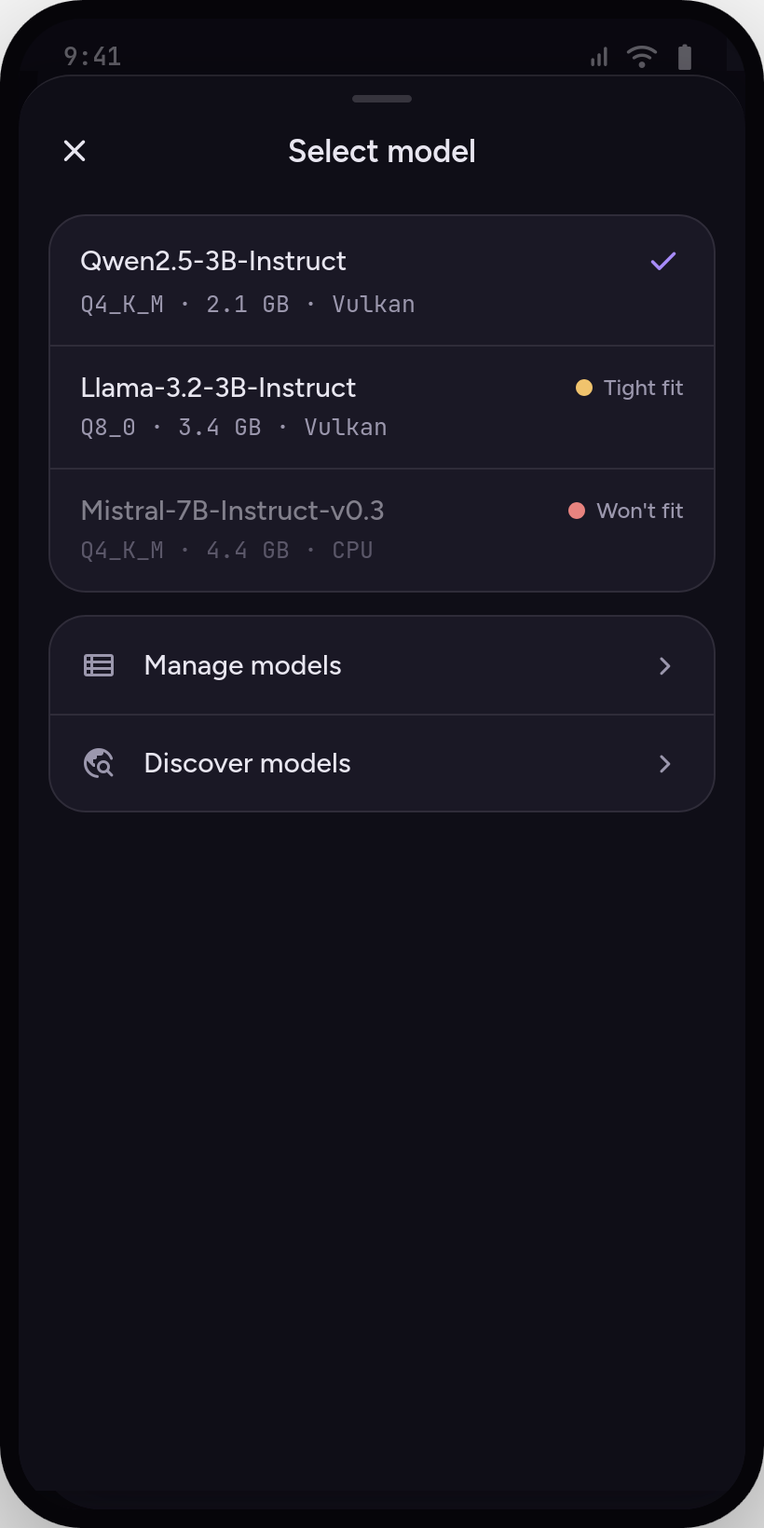
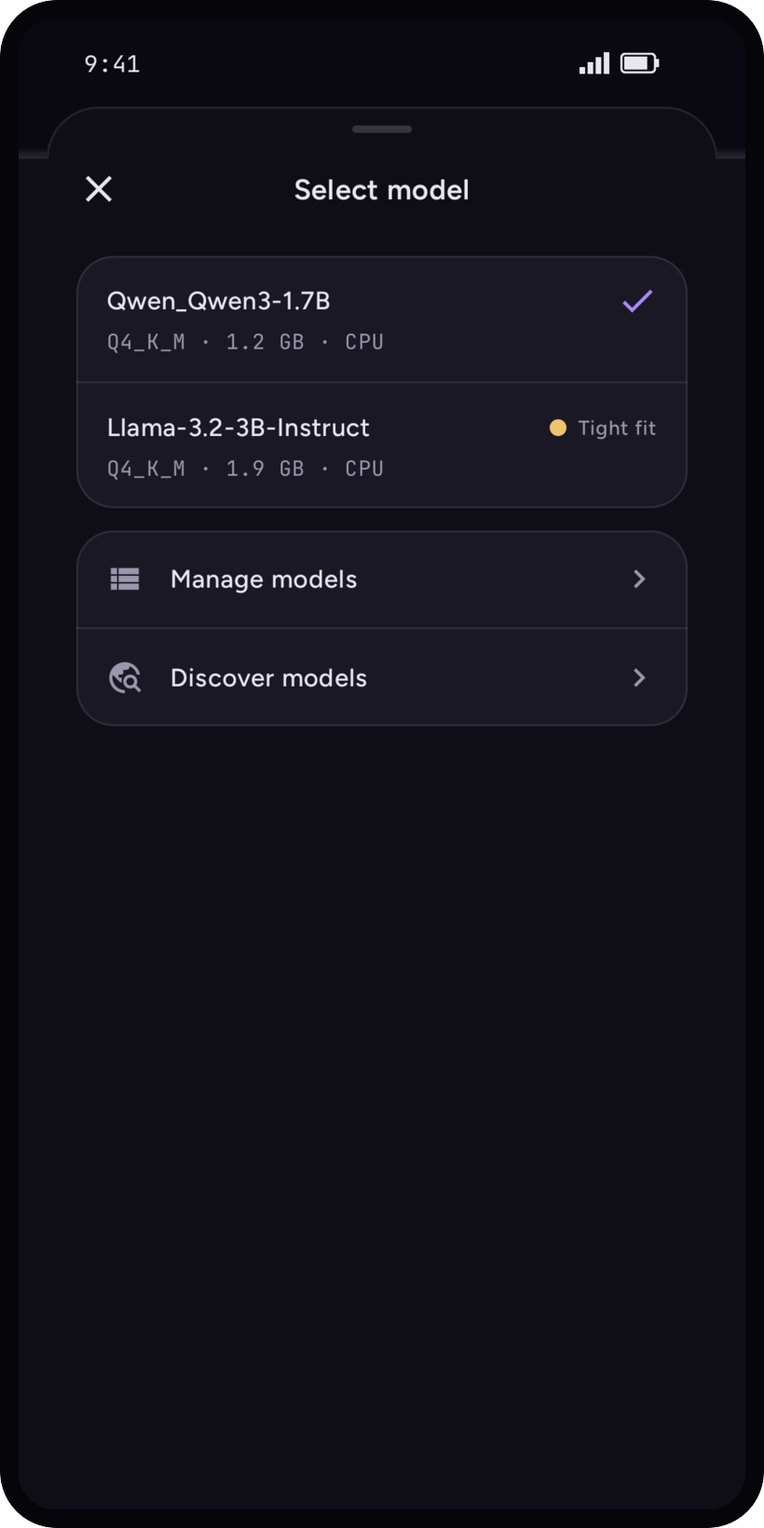
feat(shots): use real phone captures for every app screen
Release build captures in dark and light, framed by scripts/frame-shot.sh (clean status bar, same bezel as before). Five home screens and the onboarding are replaced, thirteen new screens illustrate the docs, alts and captions describe the real screens.

diff --git a/src/i18n/pages/docs.ts b/src/i18n/pages/docs.ts
@@ -119,7 +119,7 @@ const en: DocsLocale = {
           h: "First launch",
           blocks: [
             { t: "p", x: "tensai starts with a short setup: theme and language. Then it suggests a first model that fits your phone, or lets you import a GGUF file you already have." },
-            { t: "shot", name: "welcome", alt: "The welcome screen of tensai", caption: "The welcome screen. Everything runs on the phone." },
+            { t: "shot", name: "welcome", alt: "The welcome screen of tensai: Welcome to tensai, with the Theme and Language options, Continue and Skip", caption: "The welcome screen: a local AI agent, running fully on your phone. Theme and language are set here." },
             { t: "p", x: "Next: [choose your first model](/docs/first-model/)." },
           ],
         },
@@ -129,6 +129,7 @@ const en: DocsLocale = {
           blocks: [
             { t: "p", x: "Updates are new APKs on the GitHub releases, with their checksums and release notes. [Obtainium](/download/#update-h) can watch them and update tensai for you. F-Droid is not available yet." },
             { t: "p", x: "What changed in each version is on the [changelog](/changelog/), and in the app under Settings, About, Version." },
+            { t: "shot", name: "whats-new", alt: "The What's new screen of tensai, with the release notes of the installed version", caption: "What's new, from Settings, About, Version: the notes of the installed version." },
           ],
         },
       ],
@@ -191,6 +192,7 @@ const en: DocsLocale = {
             },
             { t: "p", x: "Two more labels exist: Not supported, when the engine does not know the model's architecture yet, and Draft model, for speculative decoding heads that cannot run alone. Neither has a way to load." },
             { t: "p", x: "A red light does not forbid anything: Load anyway is there, kept quiet on purpose. On the model's detail page, Estimated memory shows the number behind the light." },
+            { t: "shot", name: "model-detail", alt: "Model details of a loaded model, On this device: Estimated memory with the memory available, Backend, File location, Saved sessions and Unload", caption: "A model's details: Estimated memory with what is available, and the backend." },
           ],
         },
         {
@@ -198,7 +200,7 @@ const en: DocsLocale = {
           h: "In the app",
           blocks: [
             { t: "p", x: "Open the model picker from the chip in the input bar. Each model shows its quantization, file size, backend and fit for this phone. Manage models and Discover models are under the list." },
-            { t: "shot", name: "picker", alt: "The model picker of tensai, with the fit label next to each model", caption: "The model picker. Each model shows its quantization, size, backend and fit for this phone." },
+            { t: "shot", name: "picker", alt: "The model picker of tensai: the loaded model with a check, another model marked Tight fit, then Manage models and Discover models", caption: "The model picker. Each model shows its quantization, size and backend, with a check on the loaded one and the fit label on the others." },
             { t: "p", x: "In Discover, Recommended for your device comes first, and the Fits my phone filter hides what would not load. See [Download from Hugging Face](/docs/huggingface/)." },
           ],
         },
@@ -215,6 +217,7 @@ const en: DocsLocale = {
           blocks: [
             { t: "ol", items: ["Open Models, then Add a model, then From this phone: Import a GGUF file. On first launch the same button sits under the recommended model.", "Pick the file.", "Wait for the copy. The screen shows how much of the file is copied."] },
             { t: "p", x: "tensai copies the file into its own storage: the original stays where it was, and you need room for a second copy. It then reads the details of the model (architecture, parameters, quantization, context length) and adds it to Models, On device, with its fit verdict." },
+            { t: "shot", name: "add-model", alt: "The Models screen with the Add a model sheet: From Hugging Face, Search and download, and From this phone, Import a GGUF file", caption: "Add a model: from this phone, or from Hugging Face." },
           ],
         },
         {
@@ -232,6 +235,7 @@ const en: DocsLocale = {
           blocks: [
             { t: "p", x: "A model needs its chat template to know where a message starts and ends. By default tensai uses the template stored in the file, or guesses one from the model's name when the file has none." },
             { t: "p", x: "If the guess is wrong, set it by hand in the model's details: ChatML, Mistral, Llama 3, Gemma or Phi-3. Changing the template clears the saved sessions of that model and applies at the next load." },
+            { t: "shot", name: "chat-template", alt: "The Chat template dialog: Auto, ChatML, Mistral, Llama 3, Gemma and Phi-3", caption: "Chat template. Auto is the template of the file, or a guess from the model name." },
             { t: "p", x: "Tools are only offered to models whose template supports them. See [Tools and permissions](/docs/tools/)." },
           ],
         },
@@ -256,7 +260,7 @@ const en: DocsLocale = {
           blocks: [
             { t: "p", x: "Models, then the Discover tab. It opens on Recommended for your device, then Popular on Hugging Face. Search by name, or paste the link of a repo or of a file: only Hugging Face links are accepted." },
             { t: "p", x: "Filter with Fits my phone, and sort by downloads, likes, recent or size. The badges tell what a model offers: Tools, Thinking, Vision, and Gated when it needs a licence." },
-            { t: "shot", name: "firstmodel", alt: "The first-run model screen: a recommended model with its Download button and the Import a GGUF file link", caption: "The first-run model screen: a recommended model, its Download button, and Import a GGUF file under it." },
+            { t: "shot", name: "discover", alt: "The Discover tab of Models: Recommended for your device with the phone's RAM, the filters above the list, and models marked Runs well", caption: "Discover: Recommended for your device comes first, with the filters above it." },
           ],
         },
         {
@@ -264,6 +268,7 @@ const en: DocsLocale = {
           h: "Choose a file",
           blocks: [
             { t: "p", x: "A repo page lists the GGUF files a phone can load, each with its fit, and marks the Recommended one. The readme is there too. Download shows the size before you tap." },
+            { t: "shot", name: "repo-files", alt: "A Hugging Face repo page in tensai: Choose a file, with the size and the fit of each quantization, and a Download button showing the size", caption: "Choose a file: size and fit for each quantization." },
           ],
         },
         {
@@ -271,6 +276,7 @@ const en: DocsLocale = {
           h: "Downloads",
           blocks: [
             { t: "ul", items: ["Downloads run in the background and show their progress in a notification, with Pause and Cancel.", "Several downloads queue up. A paused or interrupted one resumes where it stopped.", "On mobile data tensai asks first. Settings, Downloads, Download on mobile data lets you allow it for good.", "A file that does not match the expected size or checksum fails instead of being added.", "When it is done, the model is in Models, On device, ready to load."] },
+            { t: "shot", name: "download-progress", alt: "Models, On device: a download in progress with its size, speed and time left, with Pause and Cancel, above two models marked Tight fit and Runs well", caption: "A download in progress, with Pause and Cancel." },
           ],
         },
         {
@@ -280,6 +286,7 @@ const en: DocsLocale = {
             { t: "p", x: "Some models are gated: you accept their licence on the Hugging Face site, with your account. tensai cannot do that for you." },
             { t: "ol", items: ["Accept the licence on the model's Hugging Face page.", "Create a read token in your Hugging Face account settings.", "In tensai: Settings, Downloads, Hugging Face token. Paste it and save."] },
             { t: "p", x: "The token stays on the phone. tensai checks it when you save it; with no connection it says Token saved, but it could not be checked. If Hugging Face refuses it, replace it, or remove it to keep downloading public models." },
+            { t: "shot", name: "gated", alt: "A gated model's page in tensai: the Gated badge, the message to accept its licence on the Hugging Face site and add a token in Settings, and an Open Settings button", caption: "A gated model: accept its licence, then add a token in Settings." },
           ],
         },
         {
@@ -309,7 +316,9 @@ const en: DocsLocale = {
                 ["Internet (off by default)", "Web search, reading one web page, weather, Wikipedia."],
               ],
             },
-            { t: "shot", name: "tool", alt: "A confirmation card in the chat: tensai wants to delete three facts from memory, with Deny and Allow", caption: "tensai asks before it deletes. Deny, or Allow." },
+            { t: "shot", name: "tools-tiers", alt: "Settings, Tools: On this phone, Phone actions and Internet, each with its switch, and the warning about where Internet requests go", caption: "Settings, Tools: one switch per tier." },
+            { t: "p", x: "Each chat has its own switch too: Conversation settings, Tools, Let the model use tools in this chat." },
+            { t: "shot", name: "chat-tools", alt: "The Conversation settings sheet: Instructions, the Thinking toggle, response style, Sampling, the Tools toggle and Max response length", caption: "Conversation settings: the Tools switch of this chat." },
           ],
         },
         {
@@ -317,6 +326,7 @@ const en: DocsLocale = {
           h: "What asks first",
           blocks: [
             { t: "ul", items: ["Deleting a fact from memory and opening a link ask for your answer in the chat, with Deny and Allow. Stop cancels the whole turn.", "A phone action opens the other app with a draft, and you validate there. tensai never sends a message itself.", "Remembering a fact or listing the memory does not ask, but every call is shown. You can forget everything in Settings, Memory.", "A tool you turned off is not offered to the model at all."] },
+            { t: "shot", name: "tool", alt: "A confirmation card in the chat: tensai wants to delete a fact from memory, with the action and the id, and Deny and Allow", caption: "tensai asks before it deletes. Deny, or Allow." },
           ],
         },
         {
@@ -340,10 +350,11 @@ const en: DocsLocale = {
           h: "What leaves the phone",
           blocks: [
             { t: "p", x: "Only the Internet tier, and only once you turn it on. Each call shows where it went. The model writes the query from the whole conversation, so a search can contain anything that is in the chat, including the result of another tool." },
+            { t: "shot", name: "internet-on", alt: "The Internet screen: Use the internet switched on, the warning about where requests go, the search provider choice and the list of Internet tools", caption: "Settings, Tools, Internet: the warning, the search provider, the tools." },
             {
               t: "dl",
               items: [
-                ["Web search", "Your search provider: DuckDuckGo by default and without a key, with Wikipedia and Marginalia as fallbacks, or Brave or Tavily with your own API key, stored on the phone."],
+                ["Web search", "Your search provider: DuckDuckGo by default and without a key, with Wikipedia and Marginalia as fallbacks, or Brave (API key, monthly free credit, card required) or Tavily (API key, 1,000 free searches a month, no card), as Settings describes them. The key is stored on the phone."],
                 ["Reading a page", "The site of the page, over HTTPS, as a normal request."],
                 ["Weather", "Open-Meteo, with the place you asked about or your approximate location."],
                 ["Wikipedia", "The title or the term looked up."],
@@ -365,6 +376,7 @@ const en: DocsLocale = {
           blocks: [
             { t: "p", x: "Settings, Inference, Default backend: Auto picks CPU or Vulkan per model, CPU forces the processor, Vulkan runs the model on the GPU when the phone supports it. Auto is the recommended one." },
             { t: "p", x: "On the class of phone we measured, dense models (Llama, Qwen, Gemma) run fastest on the big CPU cores: this GPU has no cooperative-matrix path, so Vulkan loses on prompt processing and on generation. A few architectures are the other way round: for Phi and Gemma 3n the CPU path is slow, and Vulkan is faster at generating, though the CPU still wins on prompt processing." },
+            { t: "shot", name: "backend", alt: "The Default backend dialog: Auto, recommended, picks CPU or Vulkan per model; CPU; Vulkan", caption: "Settings, Inference, Default backend." },
           ],
         },
         {
@@ -391,7 +403,8 @@ const en: DocsLocale = {
               ],
             },
             { t: "p", x: "Changing the context clears the saved sessions of the models it applies to. The conversations stay." },
-            { t: "shot", name: "context", alt: "The context sheet: how much of the window is used, the loaded model, the backend and the KV cache", caption: "The context sheet, from the ring in the chat header: what fills the window, the runtime, and the agent's activity." },
+            { t: "shot", name: "context-length", alt: "The Context length dialog for a model: Auto with its token count, then 4K, 8K, 16K, 32K and Max, each with its cache size and total memory against the phone's", caption: "Context length: for each choice, the cache and the total memory against this phone's." },
+            { t: "shot", name: "context", alt: "The context sheet: how much of the window is used, the runtime (model, backend, context length, KV cache, last reply) and the agent's tool calls", caption: "The context sheet, from the ring in the chat header: what fills the window, the runtime, and the agent's activity." },
           ],
         },
         {
@@ -486,7 +499,7 @@ const fr: DocsLocale = {
           h: "Premier lancement",
           blocks: [
             { t: "p", x: "tensai démarre par un court réglage : thème et langue. Puis il propose un premier modèle qui tient sur ton téléphone, ou te laisse importer un fichier GGUF que tu as déjà." },
-            { t: "shot", name: "welcome", alt: "L'écran d'accueil de tensai", caption: "L'écran d'accueil. Tout tourne sur le téléphone." },
+            { t: "shot", name: "welcome", alt: "L'écran d'accueil de tensai : Bienvenue sur tensai, avec les options Thème et Langue, Continuer et Passer", caption: "L'écran d'accueil : un agent IA local, qui tourne entièrement sur le téléphone. Le thème et la langue se règlent ici." },
             { t: "p", x: "Ensuite : [choisir son premier modèle](/docs/first-model/)." },
           ],
         },
@@ -496,6 +509,7 @@ const fr: DocsLocale = {
           blocks: [
             { t: "p", x: "Les mises à jour sont de nouveaux APK sur les releases GitHub, avec leurs sommes de contrôle et leurs notes de version. [Obtainium](/download/#update-h) peut les surveiller et mettre tensai à jour pour toi. F-Droid n'est pas encore disponible." },
             { t: "p", x: "Ce qui change à chaque version est dans le [changelog](/changelog/), et dans l'app sous Paramètres, À propos, Version." },
+            { t: "shot", name: "whats-new", alt: "L'écran Nouveautés de tensai, avec les notes de la version installée", caption: "Nouveautés, depuis Paramètres, À propos, Version : les notes de la version installée." },
           ],
         },
       ],
@@ -558,6 +572,7 @@ const fr: DocsLocale = {
             },
             { t: "p", x: "Deux autres étiquettes existent : Non pris en charge, quand le moteur ne connaît pas encore l'architecture du modèle, et Modèle brouillon, pour les têtes de décodage spéculatif qui ne tournent pas seules. Aucune des deux ne peut se charger." },
             { t: "p", x: "Un voyant rouge n'interdit rien : Charger quand même est là, discret exprès. Dans la fiche du modèle, Mémoire estimée montre le chiffre derrière le voyant." },
+            { t: "shot", name: "model-detail", alt: "Détails d'un modèle chargé, Sur cet appareil : Mémoire estimée avec la mémoire disponible, Backend, Emplacement du fichier, Sessions enregistrées et Décharger", caption: "Les détails d'un modèle : la Mémoire estimée avec ce qui est disponible, et le backend." },
           ],
         },
         {
@@ -565,7 +580,7 @@ const fr: DocsLocale = {
           h: "Dans l'app",
           blocks: [
             { t: "p", x: "Ouvre le sélecteur de modèle depuis la puce de la barre de saisie. Chaque modèle montre sa quantification, la taille du fichier, le backend et l'adéquation pour ce téléphone. Gérer les modèles et Découvrir des modèles sont sous la liste." },
-            { t: "shot", name: "picker", alt: "Le sélecteur de modèle de tensai, avec l'étiquette d'adéquation à côté de chaque modèle", caption: "Le sélecteur de modèle. Chaque modèle montre sa quantification, sa taille, son backend et son adéquation pour ce téléphone." },
+            { t: "shot", name: "picker", alt: "Le sélecteur de modèle de tensai : le modèle chargé avec une coche, un autre modèle marqué Juste, puis Gérer les modèles et Découvrir des modèles", caption: "Le sélecteur de modèle. Chaque modèle montre sa quantification, sa taille et son backend, avec une coche sur le modèle chargé et l'étiquette d'adéquation sur les autres." },
             { t: "p", x: "Dans Découvrir, Recommandés pour cet appareil vient en premier, et le filtre Tient sur mon téléphone cache ce qui ne chargerait pas. Voir [Télécharger depuis Hugging Face](/docs/huggingface/)." },
           ],
         },
@@ -582,6 +597,7 @@ const fr: DocsLocale = {
           blocks: [
             { t: "ol", items: ["Ouvre Modèles, puis Ajouter un modèle, puis Depuis ce téléphone : Importer un fichier GGUF. Au premier lancement, le même bouton est sous le modèle recommandé.", "Choisis le fichier.", "Attends la copie. L'écran indique la part du fichier déjà copiée."] },
             { t: "p", x: "tensai copie le fichier dans son propre stockage : l'original reste où il était, et il faut de la place pour une seconde copie. Il lit ensuite les détails du modèle (architecture, paramètres, quantification, longueur de contexte) et l'ajoute à Modèles, Sur l'appareil, avec son verdict." },
+            { t: "shot", name: "add-model", alt: "L'écran Modèles avec la feuille Ajouter un modèle : Depuis Hugging Face, Rechercher et télécharger, et Depuis ce téléphone, Importer un fichier GGUF", caption: "Ajouter un modèle : depuis ce téléphone, ou depuis Hugging Face." },
           ],
         },
         {
@@ -599,6 +615,7 @@ const fr: DocsLocale = {
           blocks: [
             { t: "p", x: "Un modèle a besoin de son modèle de chat pour savoir où un message commence et finit. Par défaut tensai utilise celui stocké dans le fichier, ou en devine un d'après le nom du modèle quand le fichier n'en a pas." },
             { t: "p", x: "Si la devinette est fausse, règle-le à la main dans les détails du modèle : ChatML, Mistral, Llama 3, Gemma ou Phi-3. Changer le modèle de chat efface les sessions sauvegardées de ce modèle et s'applique au prochain chargement." },
+            { t: "shot", name: "chat-template", alt: "La boîte Modèle de chat : Auto, ChatML, Mistral, Llama 3, Gemma et Phi-3", caption: "Modèle de chat. Auto, c'est le modèle du fichier, ou une déduction depuis le nom du modèle." },
             { t: "p", x: "Les outils ne sont proposés qu'aux modèles dont le modèle de chat les gère. Voir [Outils et permissions](/docs/tools/)." },
           ],
         },
@@ -623,7 +640,7 @@ const fr: DocsLocale = {
           blocks: [
             { t: "p", x: "Modèles, puis l'onglet Découvrir. Il s'ouvre sur Recommandés pour cet appareil, puis Populaires sur Hugging Face. Cherche par nom, ou colle le lien d'un dépôt ou d'un fichier : seuls les liens Hugging Face sont acceptés." },
             { t: "p", x: "Filtre avec Tient sur mon téléphone, et trie par téléchargements, Likes, récence ou taille. Les badges disent ce qu'offre un modèle : Outils, Réflexion, Vision, et Restreint quand il demande une licence." },
-            { t: "shot", name: "firstmodel", alt: "L'écran de modèle du premier lancement : un modèle recommandé avec son bouton Télécharger et le lien Importer un fichier GGUF", caption: "L'écran de modèle du premier lancement : un modèle recommandé, son bouton Télécharger, et Importer un fichier GGUF dessous." },
+            { t: "shot", name: "discover", alt: "L'onglet Découvrir de Modèles : Recommandés pour cet appareil avec la RAM du téléphone, les filtres au-dessus de la liste, et des modèles marqués Fonctionne bien", caption: "Découvrir : Recommandés pour cet appareil vient en premier, avec les filtres au-dessus." },
           ],
         },
         {
@@ -631,6 +648,7 @@ const fr: DocsLocale = {
           h: "Choisir un fichier",
           blocks: [
             { t: "p", x: "La page d'un dépôt liste les fichiers GGUF qu'un téléphone peut charger, chacun avec son adéquation, et marque le Recommandé. Le readme y est aussi. Télécharger affiche la taille avant que tu touches." },
+            { t: "shot", name: "repo-files", alt: "La page d'un dépôt Hugging Face dans tensai : Choisir un fichier, avec la taille et l'adéquation de chaque quantification, et un bouton Télécharger qui affiche la taille", caption: "Choisir un fichier : taille et adéquation de chaque quantification." },
           ],
         },
         {
@@ -638,6 +656,7 @@ const fr: DocsLocale = {
           h: "Téléchargements",
           blocks: [
             { t: "ul", items: ["Les téléchargements tournent en arrière-plan et montrent leur progression dans une notification, avec Pause et Annuler.", "Plusieurs téléchargements se mettent en file. Un téléchargement en pause ou interrompu reprend là où il s'était arrêté.", "En données mobiles, tensai demande d'abord. Paramètres, Téléchargements, Télécharger en données mobiles permet de l'autoriser définitivement.", "Un fichier dont la taille ou la somme de contrôle ne correspond pas échoue au lieu d'être ajouté.", "Une fois fini, le modèle est dans Modèles, Sur l'appareil, prêt à charger."] },
+            { t: "shot", name: "download-progress", alt: "Modèles, Sur l'appareil : un téléchargement en cours avec sa taille, sa vitesse et le temps restant, avec Pause et Annuler, au-dessus de deux modèles marqués Juste et Fonctionne bien", caption: "Un téléchargement en cours, avec Pause et Annuler." },
           ],
         },
         {
@@ -647,6 +666,7 @@ const fr: DocsLocale = {
             { t: "p", x: "Certains modèles sont restreints : tu acceptes leur licence sur le site de Hugging Face, avec ton compte. tensai ne peut pas le faire à ta place." },
             { t: "ol", items: ["Accepte la licence sur la page Hugging Face du modèle.", "Crée un jeton en lecture dans les paramètres de ton compte Hugging Face.", "Dans tensai : Paramètres, Téléchargements, Jeton Hugging Face. Colle-le et enregistre."] },
             { t: "p", x: "Le jeton reste sur le téléphone. tensai le vérifie à l'enregistrement ; sans connexion, il indique Jeton enregistré, mais il n'a pas pu être vérifié. Si Hugging Face le refuse, remplace-le, ou retire-le pour continuer à télécharger les modèles publics." },
+            { t: "shot", name: "gated", alt: "La page d'un modèle restreint dans tensai : le badge Restreint, le message pour accepter sa licence sur le site de Hugging Face et ajouter un jeton dans les paramètres, et un bouton Ouvrir les réglages", caption: "Un modèle restreint : accepte sa licence, puis ajoute un jeton dans les paramètres." },
           ],
         },
         {
@@ -676,7 +696,9 @@ const fr: DocsLocale = {
                 ["Internet (désactivé par défaut)", "Recherche web, lecture d'une page web, météo, Wikipédia."],
               ],
             },
-            { t: "shot", name: "tool", alt: "Une carte de confirmation dans le chat : tensai veut supprimer trois faits de la mémoire, avec Refuser et Autoriser", caption: "tensai demande avant de supprimer. Refuser, ou Autoriser." },
+            { t: "shot", name: "tools-tiers", alt: "Paramètres, Outils : Sur ce téléphone, Actions du téléphone et Internet, chacun avec son interrupteur, et l'avertissement sur la destination des requêtes Internet", caption: "Paramètres, Outils : un interrupteur par niveau." },
+            { t: "p", x: "Chaque chat a aussi son propre interrupteur : Paramètres de la conversation, Outils, Laisser le modèle utiliser des outils dans ce chat." },
+            { t: "shot", name: "chat-tools", alt: "La feuille Paramètres de la conversation : Instructions, l'interrupteur de réflexion, le style de réponse, l'échantillonnage, l'interrupteur Outils et la longueur maximale de réponse", caption: "Paramètres de la conversation : l'interrupteur Outils de ce chat." },
           ],
         },
         {
@@ -684,6 +706,7 @@ const fr: DocsLocale = {
           h: "Ce qui demande d'abord",
           blocks: [
             { t: "ul", items: ["Supprimer un fait de la mémoire et ouvrir un lien demandent ta réponse dans le chat, avec Refuser et Autoriser. Stop annule tout le tour.", "Une action du téléphone ouvre l'autre appli avec un brouillon, et tu valides là-bas. tensai n'envoie jamais un message lui-même.", "Retenir un fait ou lister la mémoire ne demande rien, mais chaque appel est affiché. Tu peux tout oublier dans Paramètres, Mémoire.", "Un outil que tu as désactivé n'est pas du tout proposé au modèle."] },
+            { t: "shot", name: "tool", alt: "Une carte de confirmation dans le chat : tensai veut supprimer un fait de la mémoire, avec l'action et l'identifiant, et Refuser et Autoriser", caption: "tensai demande avant de supprimer. Refuser, ou Autoriser." },
           ],
         },
         {
@@ -707,10 +730,11 @@ const fr: DocsLocale = {
           h: "Ce qui sort du téléphone",
           blocks: [
             { t: "p", x: "Seulement le niveau Internet, et seulement une fois que tu l'actives. Chaque appel montre où il est parti. Le modèle écrit la requête à partir de toute la conversation : une recherche peut donc contenir tout ce qui est dans le chat, y compris le résultat d'un autre outil." },
+            { t: "shot", name: "internet-on", alt: "L'écran Internet : Utiliser internet activé, l'avertissement sur la destination des requêtes, le choix du fournisseur de recherche et la liste des outils Internet", caption: "Paramètres, Outils, Internet : l'avertissement, le fournisseur de recherche, les outils." },
             {
               t: "dl",
               items: [
-                ["Recherche web", "Ton fournisseur de recherche : DuckDuckGo par défaut et sans clé, avec Wikipédia et Marginalia en secours, ou Brave ou Tavily avec ta propre clé d'API, stockée sur le téléphone."],
+                ["Recherche web", "Ton fournisseur de recherche : DuckDuckGo par défaut et sans clé, avec Wikipédia et Marginalia en secours, ou Brave (clé d'API, crédit gratuit mensuel, carte bancaire requise) ou Tavily (clé d'API, 1 000 recherches gratuites par mois, sans carte), comme les décrit Paramètres. La clé est stockée sur le téléphone."],
                 ["Lecture d'une page", "Le site de la page, en HTTPS, comme une requête normale."],
                 ["Météo", "Open-Meteo, avec le lieu demandé ou ta position approximative."],
                 ["Wikipédia", "Le titre ou le terme cherché."],
@@ -732,6 +756,7 @@ const fr: DocsLocale = {
           blocks: [
             { t: "p", x: "Paramètres, Inférence, Backend par défaut : Auto choisit CPU ou Vulkan par modèle, CPU force le processeur, Vulkan fait tourner le modèle sur le GPU quand le téléphone le gère. Auto est le choix recommandé." },
             { t: "p", x: "Sur la classe de téléphone mesurée, les modèles denses (Llama, Qwen, Gemma) vont le plus vite sur les gros cœurs du CPU : ce GPU n'a pas de chemin cooperative-matrix, donc Vulkan perd en traitement du prompt comme en génération. Quelques architectures sont à l'inverse : pour Phi et Gemma 3n, le chemin CPU est lent et Vulkan génère plus vite, même si le CPU reste devant pour le traitement du prompt." },
+            { t: "shot", name: "backend", alt: "La boîte Backend par défaut : Auto, recommandé, choisit CPU ou Vulkan selon le modèle ; CPU ; Vulkan", caption: "Paramètres, Inférence, Backend par défaut." },
           ],
         },
         {
@@ -758,7 +783,8 @@ const fr: DocsLocale = {
               ],
             },
             { t: "p", x: "Changer le contexte efface les sessions sauvegardées des modèles concernés. Les conversations restent." },
-            { t: "shot", name: "context", alt: "La feuille Contexte : la part de fenêtre utilisée, le modèle chargé, le backend et le cache KV", caption: "La feuille Contexte, depuis l'anneau de l'en-tête du chat : ce qui remplit la fenêtre, l'exécution, et l'activité de l'agent." },
+            { t: "shot", name: "context-length", alt: "La boîte Longueur de contexte d'un modèle : Auto avec son nombre de tokens, puis 4K, 8K, 16K, 32K et Max, chacun avec la taille du cache et la mémoire totale face à celle du téléphone", caption: "Longueur de contexte : pour chaque choix, le cache et la mémoire totale face à celle de ce téléphone." },
+            { t: "shot", name: "context", alt: "La feuille Contexte : la part de fenêtre utilisée, l'exécution (modèle, backend, longueur de contexte, cache KV, dernière réponse) et les appels d'outils de l'agent", caption: "La feuille Contexte, depuis l'anneau de l'en-tête du chat : ce qui remplit la fenêtre, l'exécution, et l'activité de l'agent." },
           ],
         },
         {

diff --git a/src/i18n/pages/download.ts b/src/i18n/pages/download.ts
@@ -51,8 +51,8 @@ const en = {
     steps: [
       { title: "Download the APK", text: "Get the APK from this page or from GitHub releases.", textSoon: "At 1.0, the APK will be on this page and on GitHub releases.", shot: "apk-download", alt: "Browser download bar showing tensai-1.0.0.apk with an Open button" },
       { title: "Allow installs from this source", text: "Android asks once. Allow your browser or file manager to install apps.", textSoon: "Android will ask once. Allow your browser or file manager to install apps.", shot: "unknown-apps", alt: "Android Install unknown apps settings for the browser, Allow from this source switched on" },
-      { title: "Open tensai", text: "tensai starts with a short setup: theme and language.", textSoon: "tensai will start with a short setup: theme and language.", shot: "welcome", alt: "Welcome screen" },
-      { title: "Pick a first model", text: "tensai suggests one that fits your phone. Download it or import a GGUF file.", textSoon: "tensai will suggest one that fits your phone. Download it or import a GGUF file.", shot: "firstmodel", alt: "First model picker" },
+      { title: "Open tensai", text: "tensai starts with a short setup: theme and language.", textSoon: "tensai will start with a short setup: theme and language.", shot: "welcome", alt: "The welcome screen: Welcome to tensai, with the Theme and Language options, Continue and Skip" },
+      { title: "Pick a first model", text: "tensai suggests one that fits your phone. Download it or import a GGUF file.", textSoon: "tensai will suggest one that fits your phone. Download it or import a GGUF file.", shot: "firstmodel", alt: "The first-run model screen: a recommended model marked Runs well, with its Download button and the Import a GGUF file button" },
     ],
   },
   update: {
@@ -116,8 +116,8 @@ const fr: typeof en = {
     steps: [
       { title: "Télécharger l'APK", text: "L'APK se récupère sur cette page ou dans les releases GitHub.", textSoon: "À la 1.0, l'APK sera sur cette page et dans les releases GitHub.", shot: "apk-download", alt: "Barre de téléchargement du navigateur avec tensai-1.0.0.apk et un bouton Open" },
       { title: "Autoriser l'installation depuis cette source", text: "Android le demande une seule fois. Autoriser le navigateur ou le gestionnaire de fichiers à installer des apps.", textSoon: "Android le demandera une seule fois. Il faudra autoriser le navigateur ou le gestionnaire de fichiers à installer des apps.", shot: "unknown-apps", alt: "Réglage Android Install unknown apps pour le navigateur, Allow from this source activé" },
-      { title: "Ouvrir tensai", text: "tensai démarre par une courte configuration : thème et langue.", textSoon: "tensai démarrera par une courte configuration : thème et langue.", shot: "welcome", alt: "Écran d'accueil" },
-      { title: "Choisir un premier modèle", text: "tensai en propose un adapté au téléphone. Le télécharger ou importer un fichier GGUF.", textSoon: "tensai en proposera un adapté au téléphone. Le télécharger ou importer un fichier GGUF.", shot: "firstmodel", alt: "Choix du premier modèle" },
+      { title: "Ouvrir tensai", text: "tensai démarre par une courte configuration : thème et langue.", textSoon: "tensai démarrera par une courte configuration : thème et langue.", shot: "welcome", alt: "L'écran d'accueil : Bienvenue sur tensai, avec les options Thème et Langue, Continuer et Passer" },
+      { title: "Choisir un premier modèle", text: "tensai en propose un adapté au téléphone. Le télécharger ou importer un fichier GGUF.", textSoon: "tensai en proposera un adapté au téléphone. Le télécharger ou importer un fichier GGUF.", shot: "firstmodel", alt: "L'écran de modèle du premier lancement : un modèle recommandé marqué Fonctionne bien, avec son bouton Télécharger et le bouton Importer un fichier GGUF" },
     ],
   },
   update: {

diff --git a/src/i18n/pages/home.ts b/src/i18n/pages/home.ts
@@ -10,7 +10,7 @@ const en = {
     ctaNote: "Public release with 1.0",
     how: "How it works",
     engine: "llama.kt is already public",
-    shotAlt: "tensai chat screen: a short reply with its speed stats",
+    shotAlt: "A tensai chat: a short reply to a question about phone battery, with its speed stats under the reply",
   },
   pillars: [
     {
@@ -41,22 +41,22 @@ const en = {
     items: [
       {
         key: "picker",
-        alt: "Model picker with fit check",
+        alt: "The model picker: the loaded model with a check, another model marked Tight fit, then Manage models and Discover models",
         caption: "Pick a model. The fit check shows what your phone can run.",
       },
       {
         key: "reasoning",
-        alt: "Chat with a reasoning block",
+        alt: "A chat where the model is reasoning: the Thinking block is open under the question about whether 391 is a prime number",
         caption: "Read the model's reasoning, or fold it away.",
       },
       {
         key: "tool",
-        alt: "Tool call waiting for confirmation",
+        alt: "A tool call waiting for confirmation: tensai wants to delete a fact from memory, with Deny and Allow",
         caption: "Anything that deletes or sends waits for your answer.",
       },
       {
         key: "context",
-        alt: "Context drawer",
+        alt: "The context sheet: how much of the window is used, the runtime and the agent's tool calls",
         caption: "See what fills the context, agent activity included.",
       },
     ],
@@ -95,7 +95,7 @@ const fr: typeof en = {
     ctaNote: "Version publique avec la 1.0",
     how: "Comment ça marche",
     engine: "llama.kt est déjà public",
-    shotAlt: "Écran de chat de tensai : une réponse courte et ses statistiques de vitesse",
+    shotAlt: "Un chat tensai : une réponse courte à une question sur la batterie du téléphone, avec ses statistiques de vitesse sous la réponse",
   },
   pillars: [
     {
@@ -126,22 +126,22 @@ const fr: typeof en = {
     items: [
       {
         key: "picker",
-        alt: "Sélecteur de modèle avec test d'adéquation",
+        alt: "Le sélecteur de modèle : le modèle chargé avec une coche, un autre modèle marqué Juste, puis Gérer les modèles et Découvrir des modèles",
         caption: "Choisir un modèle. Le test d'adéquation montre ce que le téléphone peut faire tourner.",
       },
       {
         key: "reasoning",
-        alt: "Chat avec un bloc de raisonnement",
+        alt: "Un chat où le modèle raisonne : le bloc de réflexion est ouvert sous la question sur la primalité de 391",
         caption: "Lire le raisonnement du modèle, ou le replier.",
       },
       {
         key: "tool",
-        alt: "Appel d'outil en attente de confirmation",
+        alt: "Un appel d'outil en attente de confirmation : tensai veut supprimer un fait de la mémoire, avec Refuser et Autoriser",
         caption: "Tout ce qui supprime ou envoie attend une réponse.",
       },
       {
         key: "context",
-        alt: "Tiroir de contexte",
+        alt: "La feuille Contexte : la part de fenêtre utilisée, l'exécution et les appels d'outils de l'agent",
         caption: "Voir ce qui remplit le contexte, activité de l'agent comprise.",
       },
     ],
